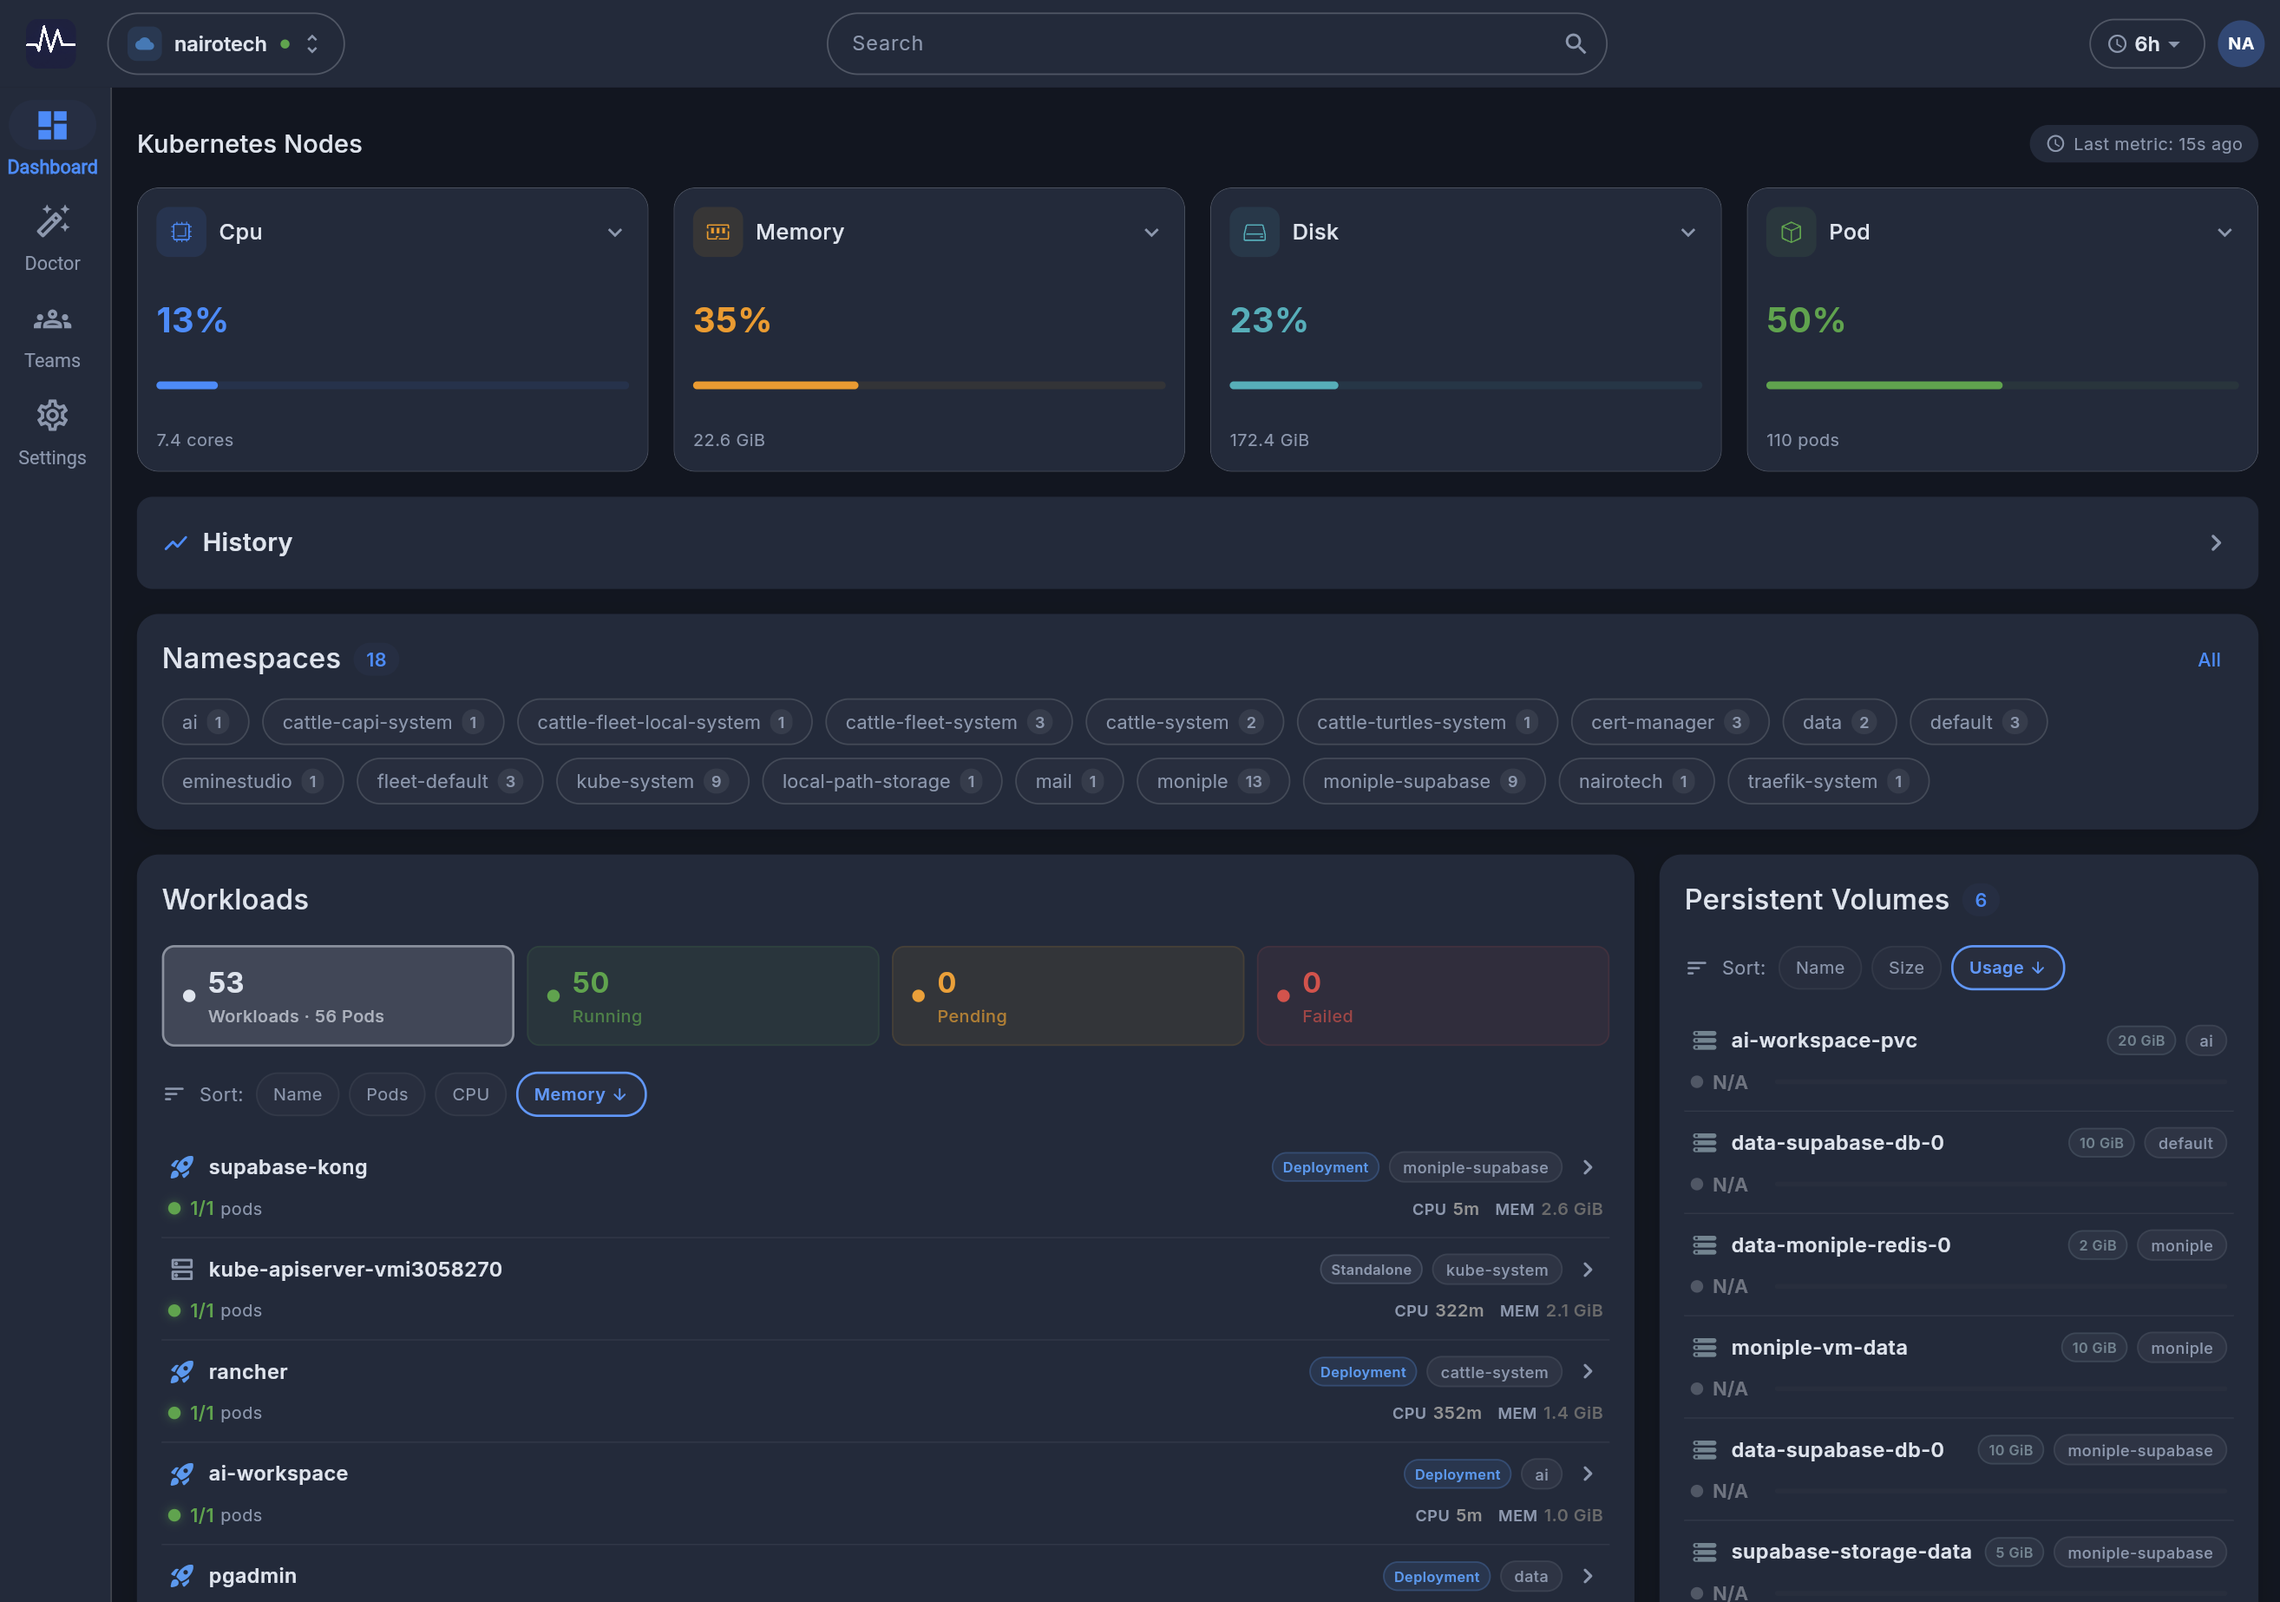
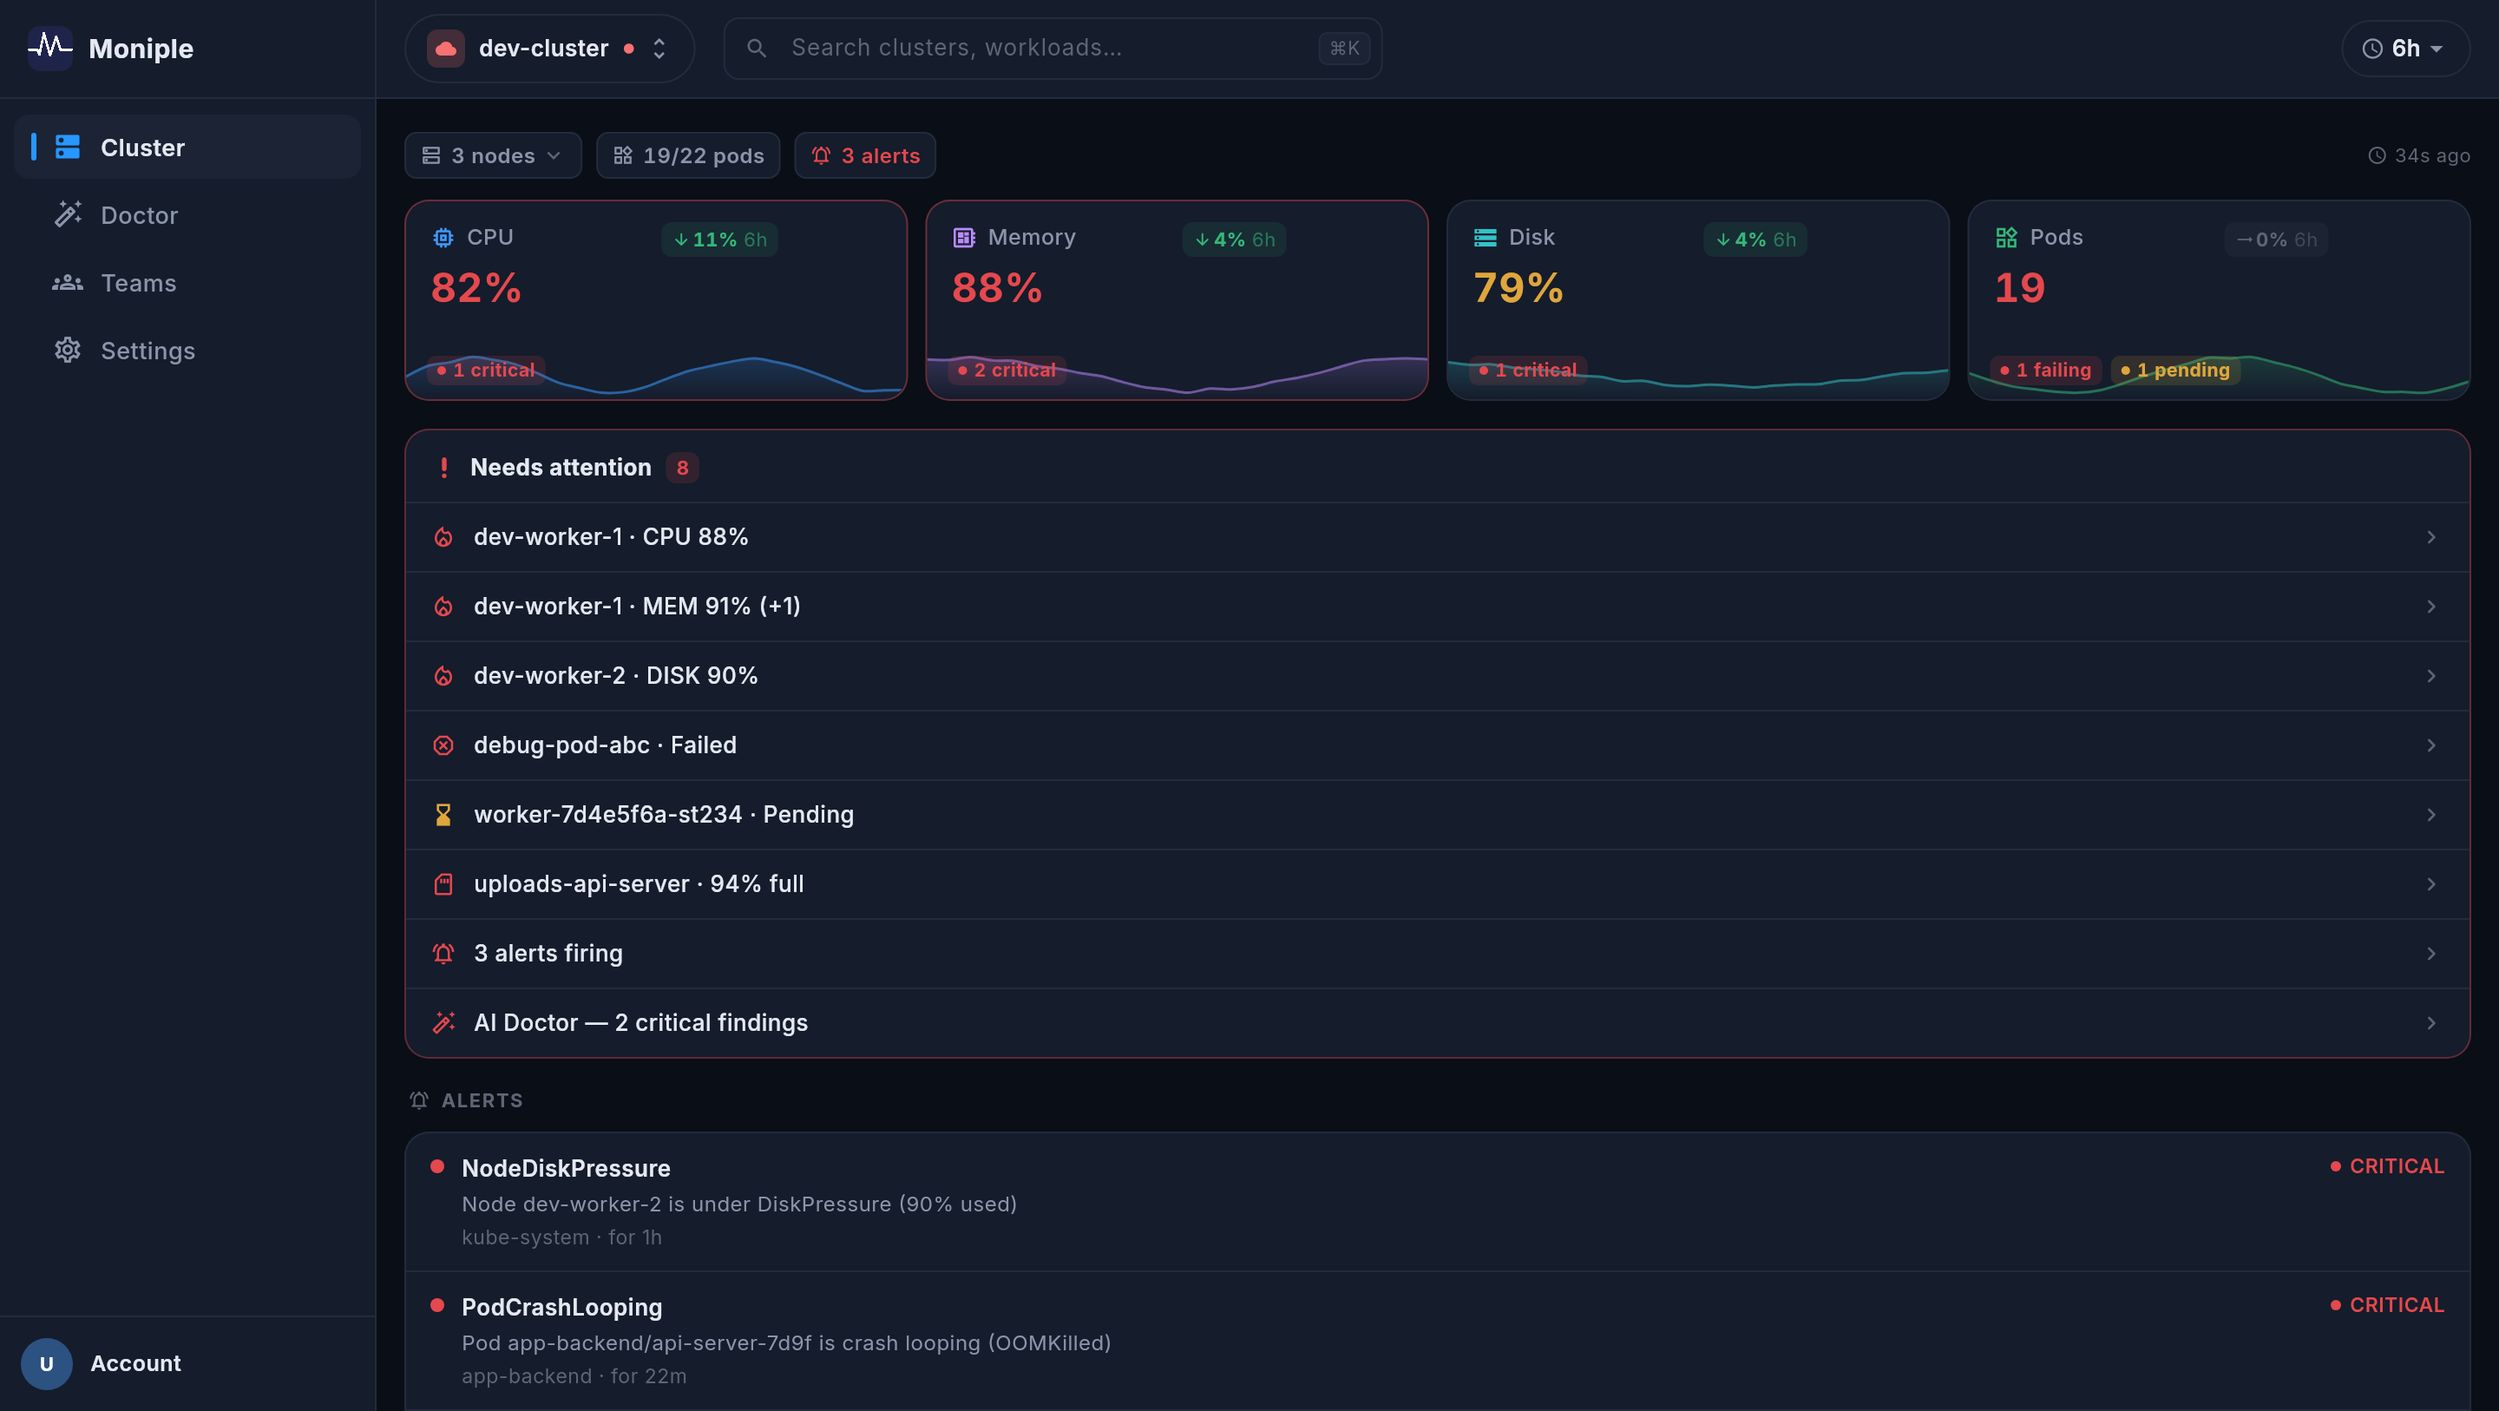
chore(marketing): update landing app screenshots to the new UI (Fleet/sidebar redesign, demo mode)

diff --git a/src/components/home/AppPreview.tsx b/src/components/home/AppPreview.tsx
@@ -37,8 +37,8 @@ export default function AppPreview() {
               <Image
                 src="/images/app/dashboard-desktop.png"
                 alt="Moniple Dashboard - Desktop View"
-                width={1914}
-                height={1606}
+                width={2880}
+                height={1626}
                 className="w-full h-auto"
                 priority
               />
@@ -71,8 +71,8 @@ export default function AppPreview() {
                 <Image
                   src="/images/app/dashboard-mobile.png"
                   alt="Moniple Dashboard - Mobile View"
-                  width={1290}
-                  height={2796}
+                  width={1320}
+                  height={2868}
                   className="w-full h-auto"
                 />
               </div>

diff --git a/src/components/home/HeroSection.tsx b/src/components/home/HeroSection.tsx
@@ -129,8 +129,8 @@ export default function HeroSection() {
               <Image
                 src="/images/app/dashboard-desktop.png"
                 alt="Moniple Dashboard"
-                width={1914}
-                height={1606}
+                width={2880}
+                height={1626}
                 className="w-full h-auto"
                 priority
               />
@@ -143,8 +143,8 @@ export default function HeroSection() {
                   <Image
                     src="/images/app/dashboard-mobile.png"
                     alt="Moniple Mobile"
-                    width={1290}
-                    height={2796}
+                    width={1320}
+                    height={2868}
                     className="w-full h-auto"
                   />
                 </div>
